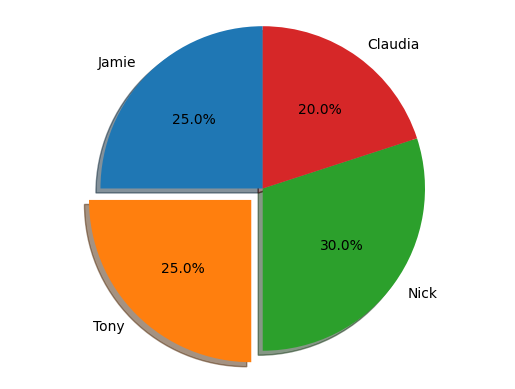
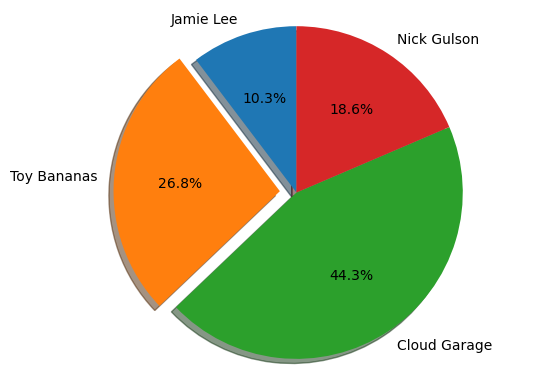
added date range and linked gb to email

diff --git a/get-transcript/get_transcript.py b/get-transcript/get_transcript.py
@@ -88,14 +88,15 @@ class Transcript():
             'content-type': "application/json"
         }
         # Get a list of all meetings
-        # for some reason, only getting meetings from the past month?
+        # for some reason, only getting meetings from the past month? (update: max range = 1 month!)
         try:
-            request_endpoint = "/v2/users/me/recordings?from=2000-01-01"
+            # request_endpoint = "/v2/users/me/recordings?from=2000-01-01" --> Dave's version
+            request_endpoint = "/v2/users/me/recordings?from=2020-11-06&to=2020-11-11" # specify date range
             self.conn.request("GET", request_endpoint, headers=get_meeting_headers)
             res = self.conn.getresponse()
             data = res.read().decode("utf-8")
             response = json.loads(data)
-            print(response)  ##
+            print(response)  ## print statement to check date range
         except:
             print("Bad Response to access recordings.")
             print(data)

diff --git a/get-transcript/createemail.py b/get-transcript/createemail.py
@@ -8,12 +8,22 @@ import get_breakdown as gb
 
 #information for report
 numpersons = 4
-names = ["Jamie", "Tony", "Nick", "Claudia"]
+# names = ["Jamie", "Tony", "Nick", "Claudia"]
+breakdowns = gb.getBreakdown("94923151321_audio_transcript.vtt")
+total_seconds = 0
+seconds = []
+names = []
+for b in breakdowns:
+    total_seconds += b[1]
+    names.append(b[0])
+    seconds.append(b[1])
+
+percentages = [int(s / total_seconds * 100) for s in seconds]
 stringnames = ', '.join(names)
-percentages = [25, 25, 30, 20]
+# percentages = [25, 25, 30, 20]
 #percentages = [10, 40, 25, 25]
-meetingid = "6102983"
-meetingdate = "20/10/2020"
+meetingid = "94923151321"
+meetingdate = "11/10/2020"
 meetingtime = "5:30pm"
 
 #analyzing times

diff --git a/get-transcript/run-get-transcript.py b/get-transcript/run-get-transcript.py
@@ -15,7 +15,7 @@ import get_transcript as gt
 spongebob = gt.Transcript(meeting_id=94923151321, # J's 11/10 meeting
                           client_key="FEc1Rq0JTi2MFfHNH94DgA",
                           client_secret="WECczlqk1PZLmmwzt1c1n43hcmw7lHDJ",
-                          code="bjc928tYW5_wcT7DtCgTKKr-HDFlXouZA") # update before each run
+                          code="bd0Wey4dh8_wcT7DtCgTKKr-HDFlXouZA") # update before each run
 
 spongebob.GetTranscript()
 
